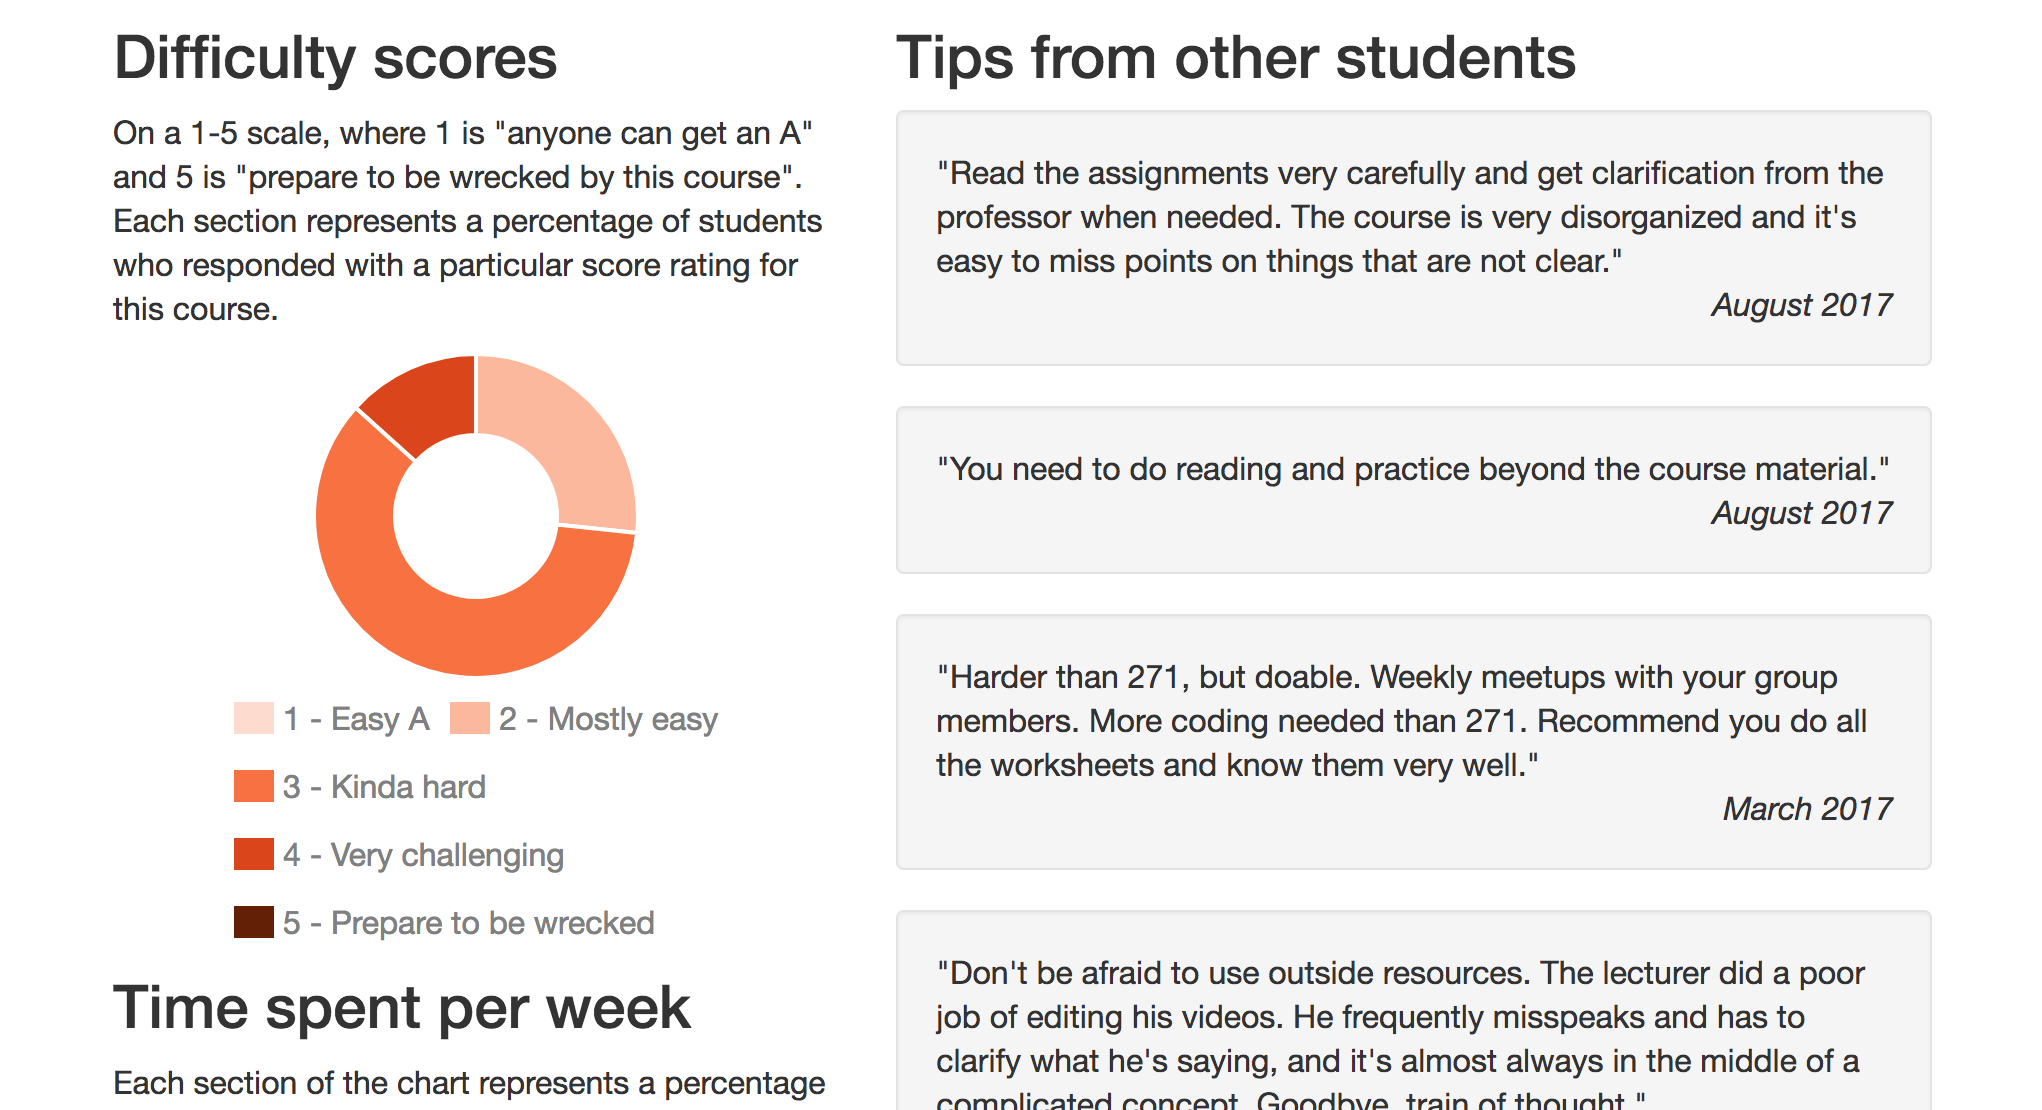
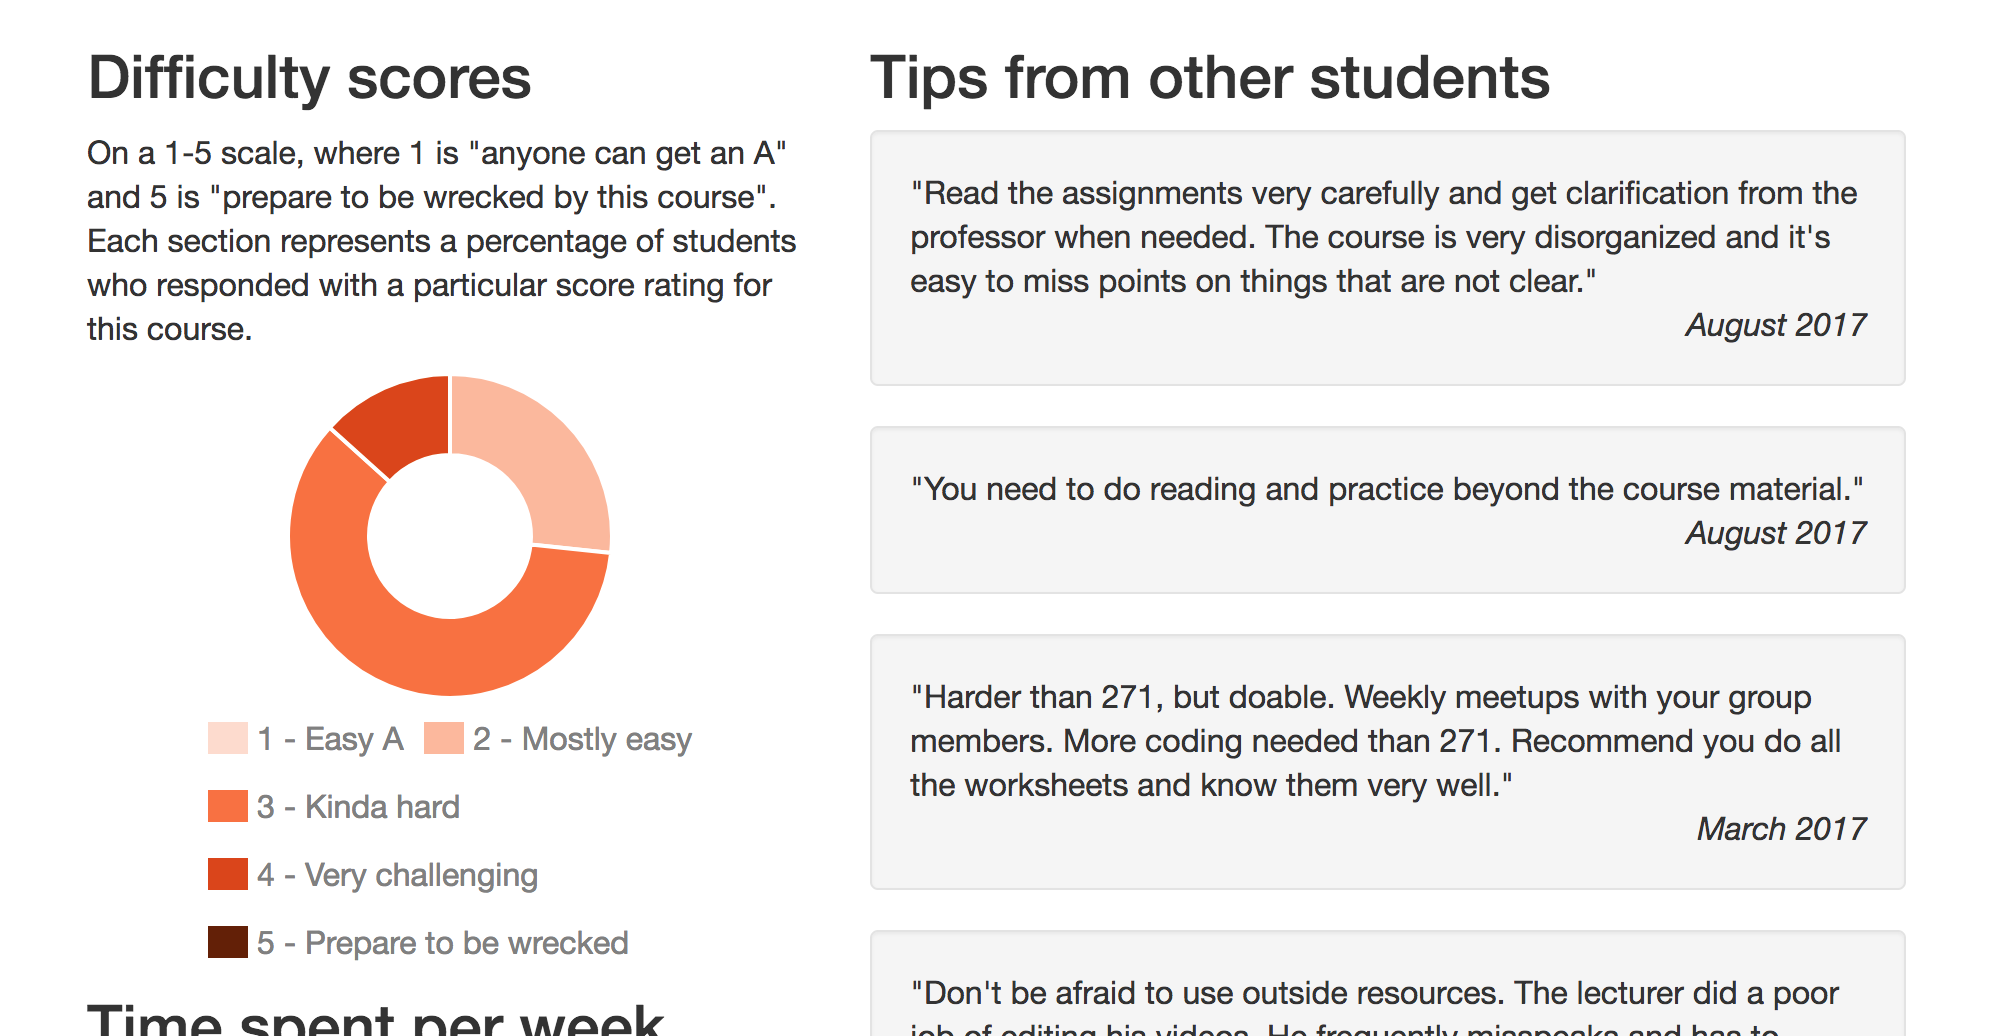
Finally happy with the image and the way it renders in Facebook's preview

diff --git a/client/_index.html b/client/_index.html
@@ -32,7 +32,7 @@
     <meta property="og:title" content="OSU CS Course Explorer"/>
     <meta name="description" content="Course reviews from real students in Oregon State University's online C.S. degree program."/>
     <meta property="og:description" content="Course reviews from real students in Oregon State University's online C.S. degree program."/>
-    <meta property="og:image" content="https://osu-cs-course-explorer.com/assets/images/osu-cs-reviews-399050e519.png"/>
+    <meta property="og:image" content="https://osu-cs-course-explorer.com/assets/images/osu-cs-reviews-680c290421.png"/>
     <meta property="og:url" content="https://osu-cs-course-explorer.com"/>
 </head>
 <body>
